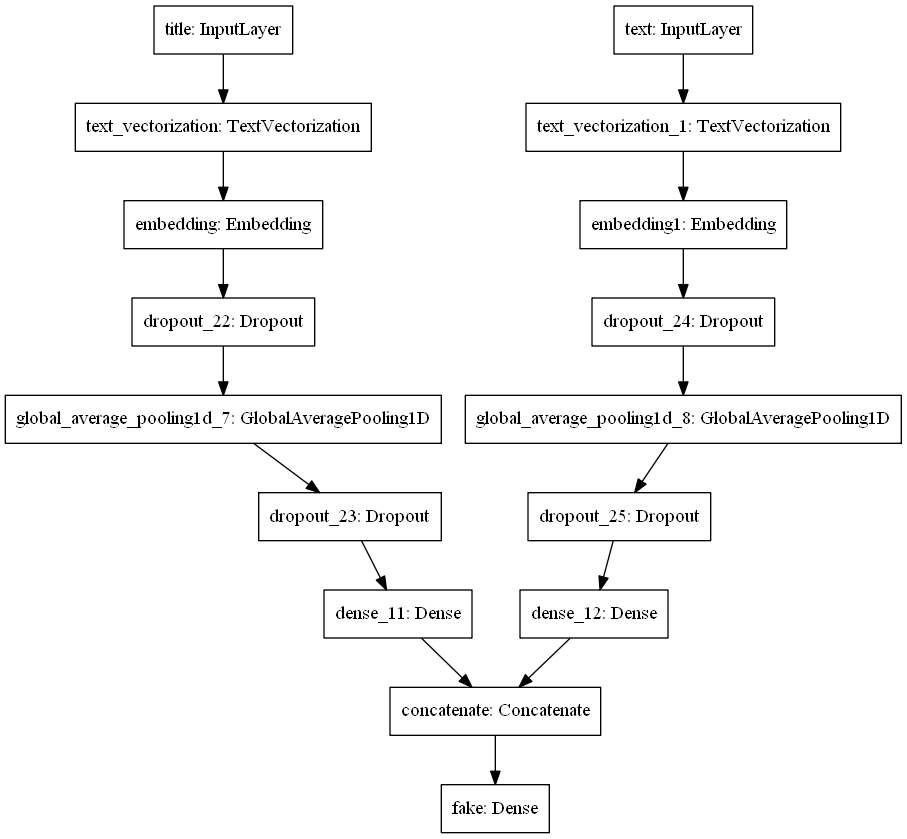
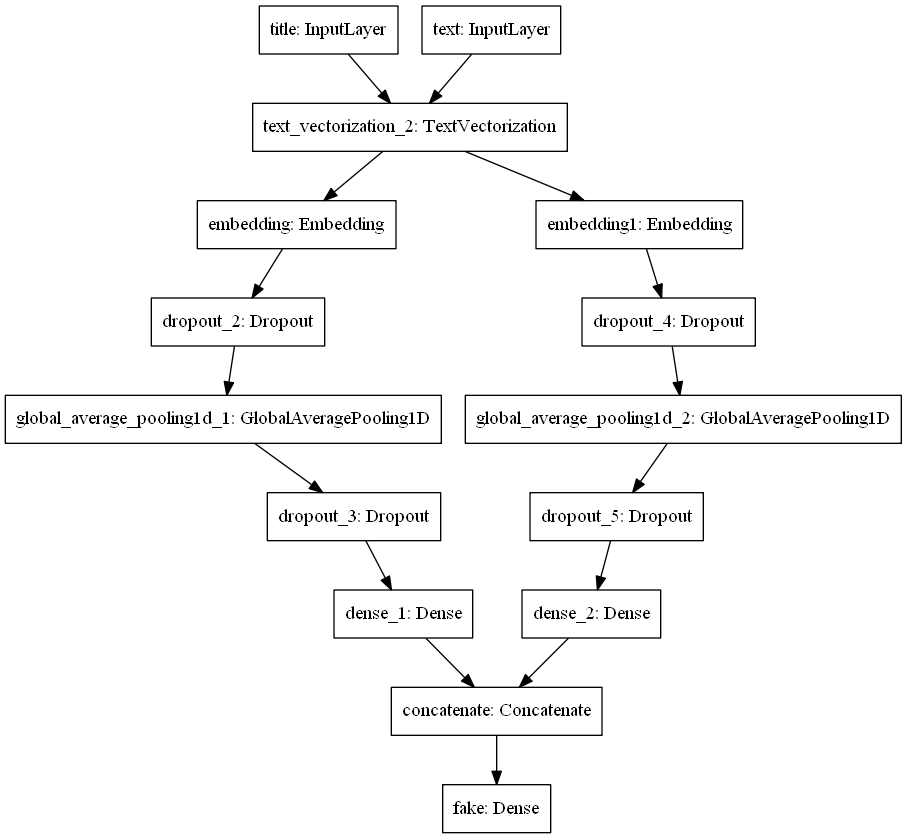
update

diff --git a/bak/2022-03-03-blog-post-6-20220304-2.md b/bak/2022-03-03-blog-post-6-20220304-2.md
@@ -118,11 +118,19 @@ vectorize_layer = TextVectorization(
     output_mode='int',
     output_sequence_length=25) 
 vectorize_layer.adapt(train_dataset.map(lambda x, y: x["title"]))
-vectorize_layer.adapt(train_dataset.map(lambda x, y: x["text"]))
 ```
 
-We adapt the vectorizaiton layer to the title. In the adaption process, the vectorization layer learns what words are common in title and text.
+We adapt the vectorizaiton layer to the title. In the adaption process, the vectorization layer learns what words are common in title.
 
+```python
+vectorize_layer1 = TextVectorization(
+    standardize=standardization,
+    max_tokens=size_vocabulary, # only consider this many words
+    output_mode='int',
+    output_sequence_length=500)
+vectorize_layer1.adapt(train_dataset.map(lambda x, y: x["text"]))
+```
+We adapt the vectorizaiton layer to the text. In the adaption process, the vectorization layer learns what words are common in text.
 
 ### (2) Inputs
 ```python
@@ -147,11 +155,12 @@ In the first model, We write a pipeline for the title. This pipeline include one
 ```python
 # layers for processing the title
 title_features = vectorize_layer(title_input)
-title_features = layers.Embedding(size_vocabulary, 2)(title_features)
+title_features = layers.Embedding(size_vocabulary, 2, 
+                                   name = "embedding")(title_features)
 title_features = layers.Dropout(0.2)(title_features)
 title_features = layers.GlobalAveragePooling1D()(title_features)
 title_features = layers.Dropout(0.2)(title_features)
-title_features = layers.Dense(32, activation='relu')(title_features)
+title_features = layers.Dense(32, activation='sigmoid')(title_features)
 title_output = layers.Dense(2,name="fake")(title_features)
 model1 = keras.Model(
     inputs = [title_input], 
@@ -227,7 +236,8 @@ We write a pipeline for the text. This pipeline include one vectorize layer, one
 
 ```python
 text_features = vectorize_layer1(text_input)
-text_features = layers.Embedding(size_vocabulary, 2)(text_features)
+text_features = layers.Embedding(size_vocabulary, 2, 
+                                 name = "embedding1")(text_features)
 text_features = layers.Dropout(0.2)(text_features)
 text_features = layers.GlobalAveragePooling1D()(text_features)
 text_features = layers.Dropout(0.2)(text_features)
@@ -305,7 +315,7 @@ plt.legend()
 
 ```python
 main = layers.concatenate([title_features,text_features],axis=1)
-output = layers.Dense(2)(main)
+output = layers.Dense(2,name="fake")(main)
 model3 = keras.Model(
      inputs = [title_input,text_input],
      outputs = output
